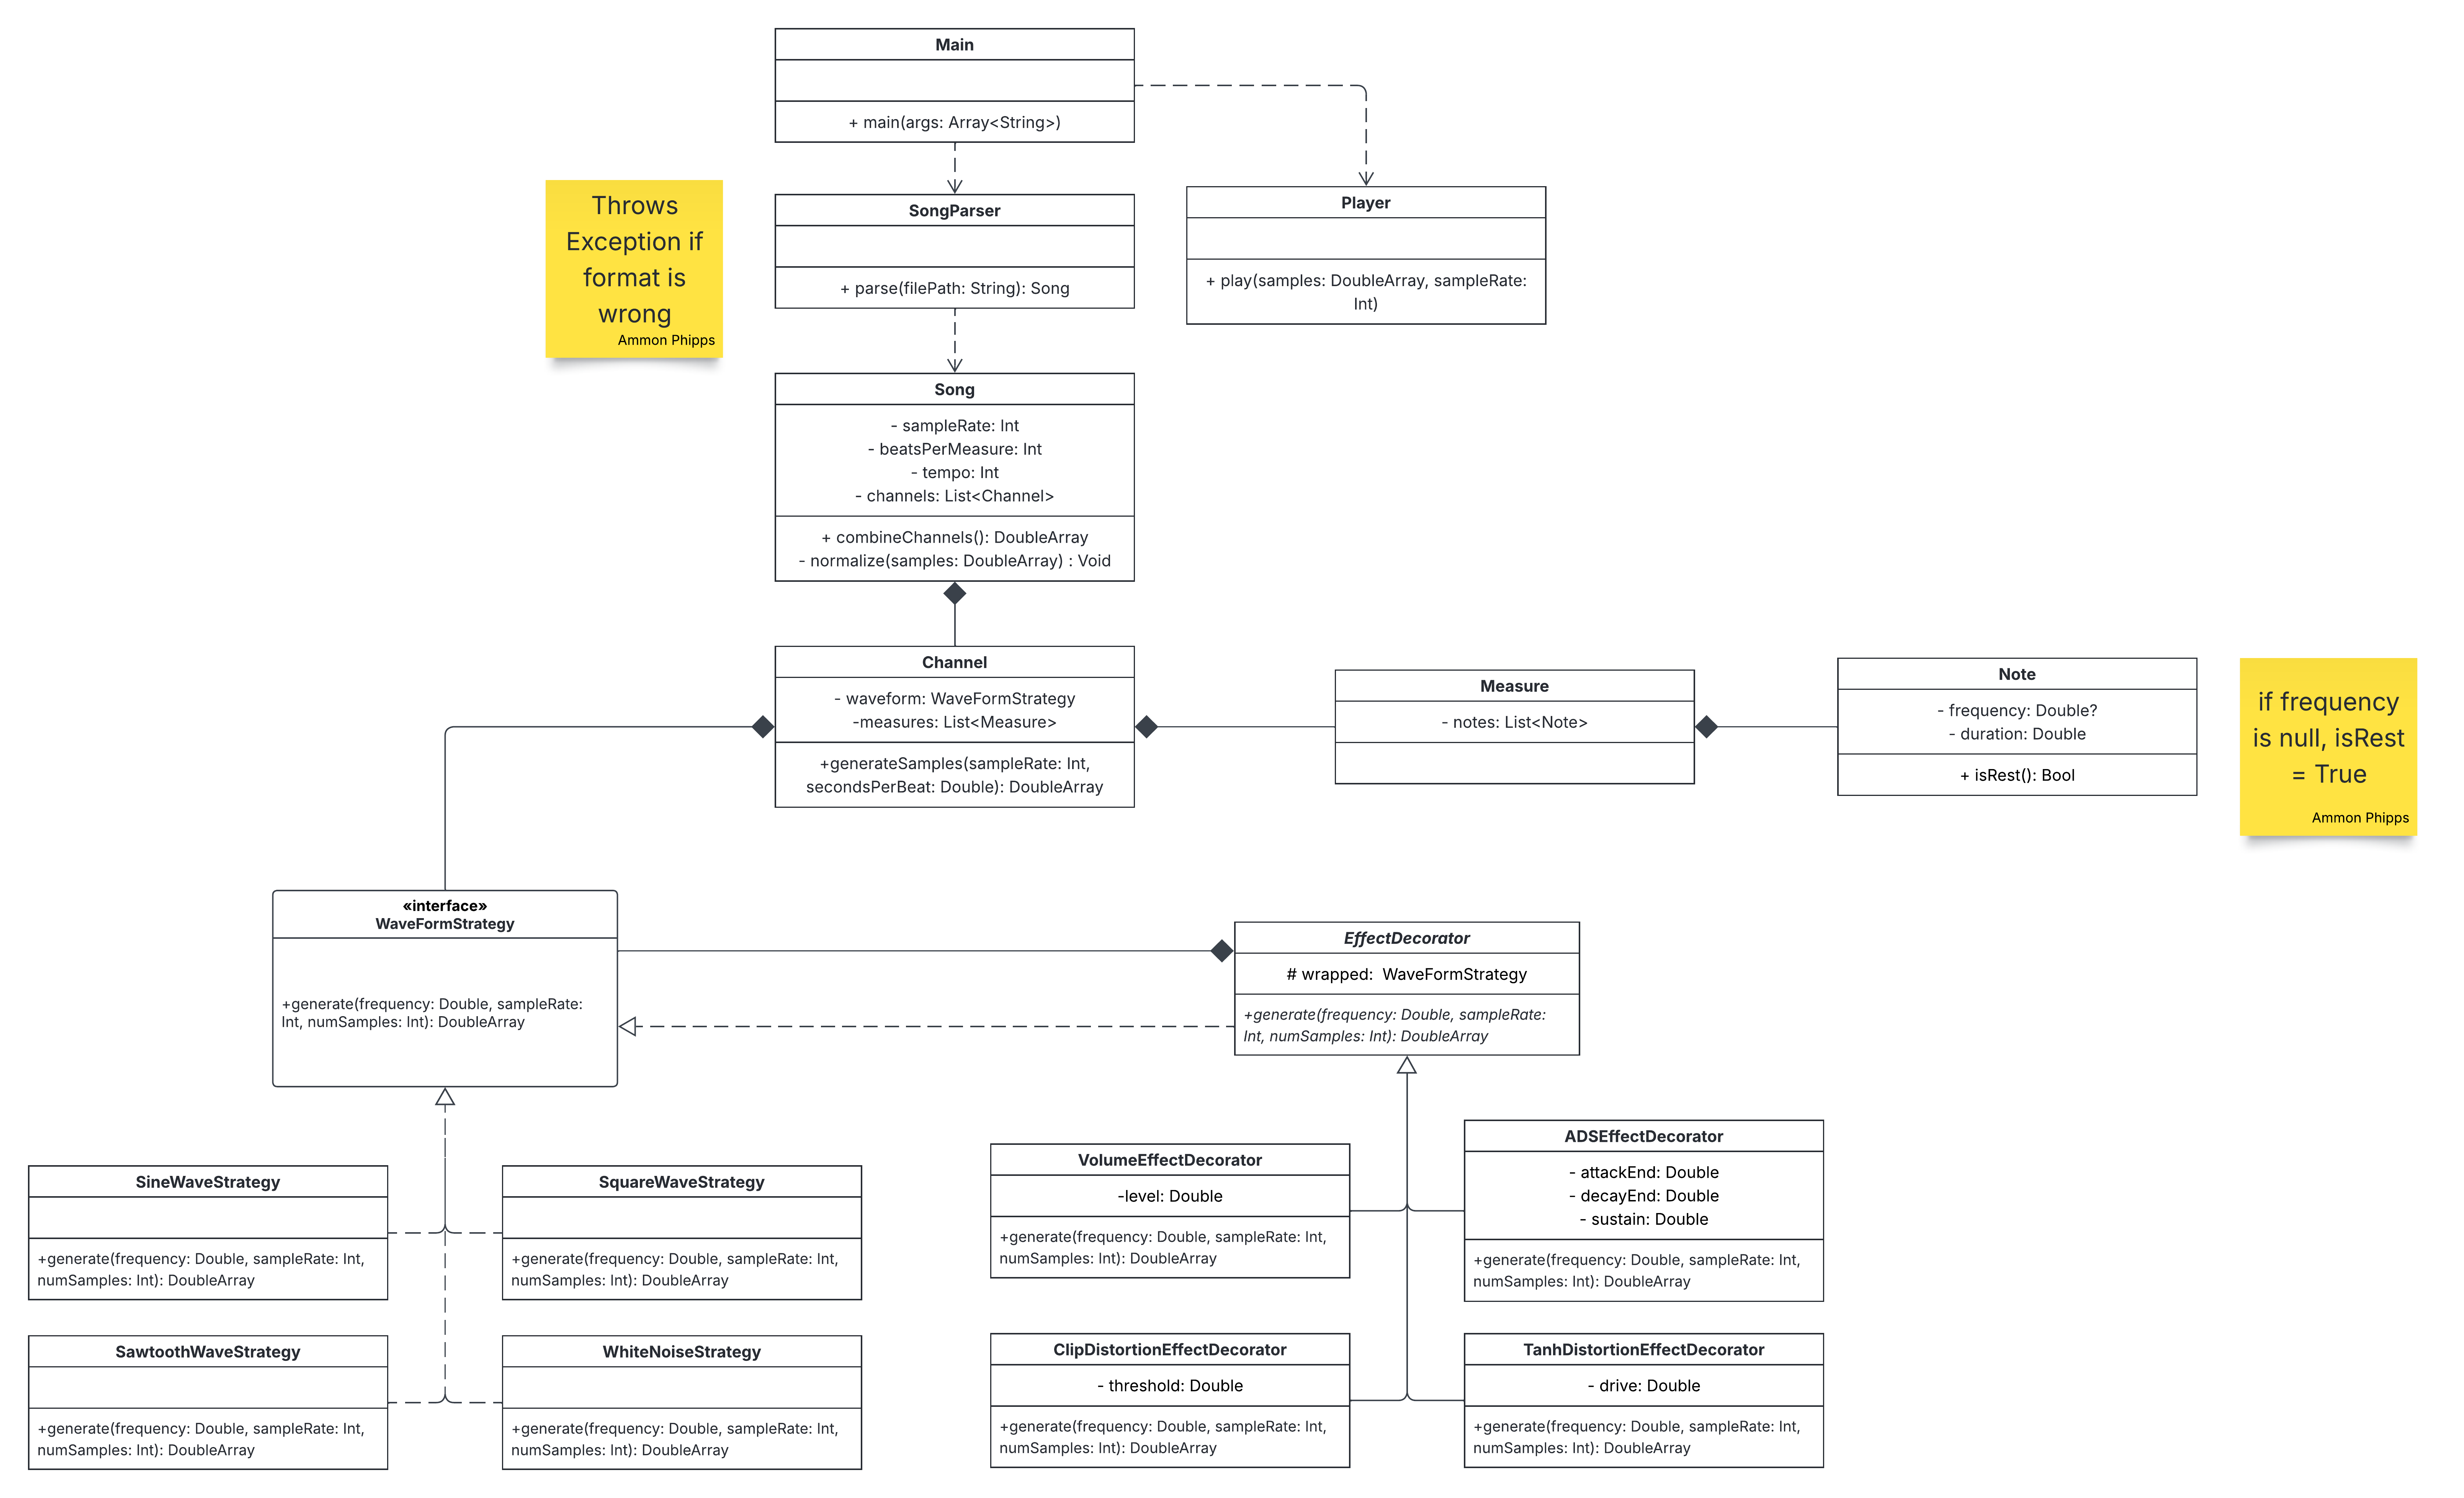
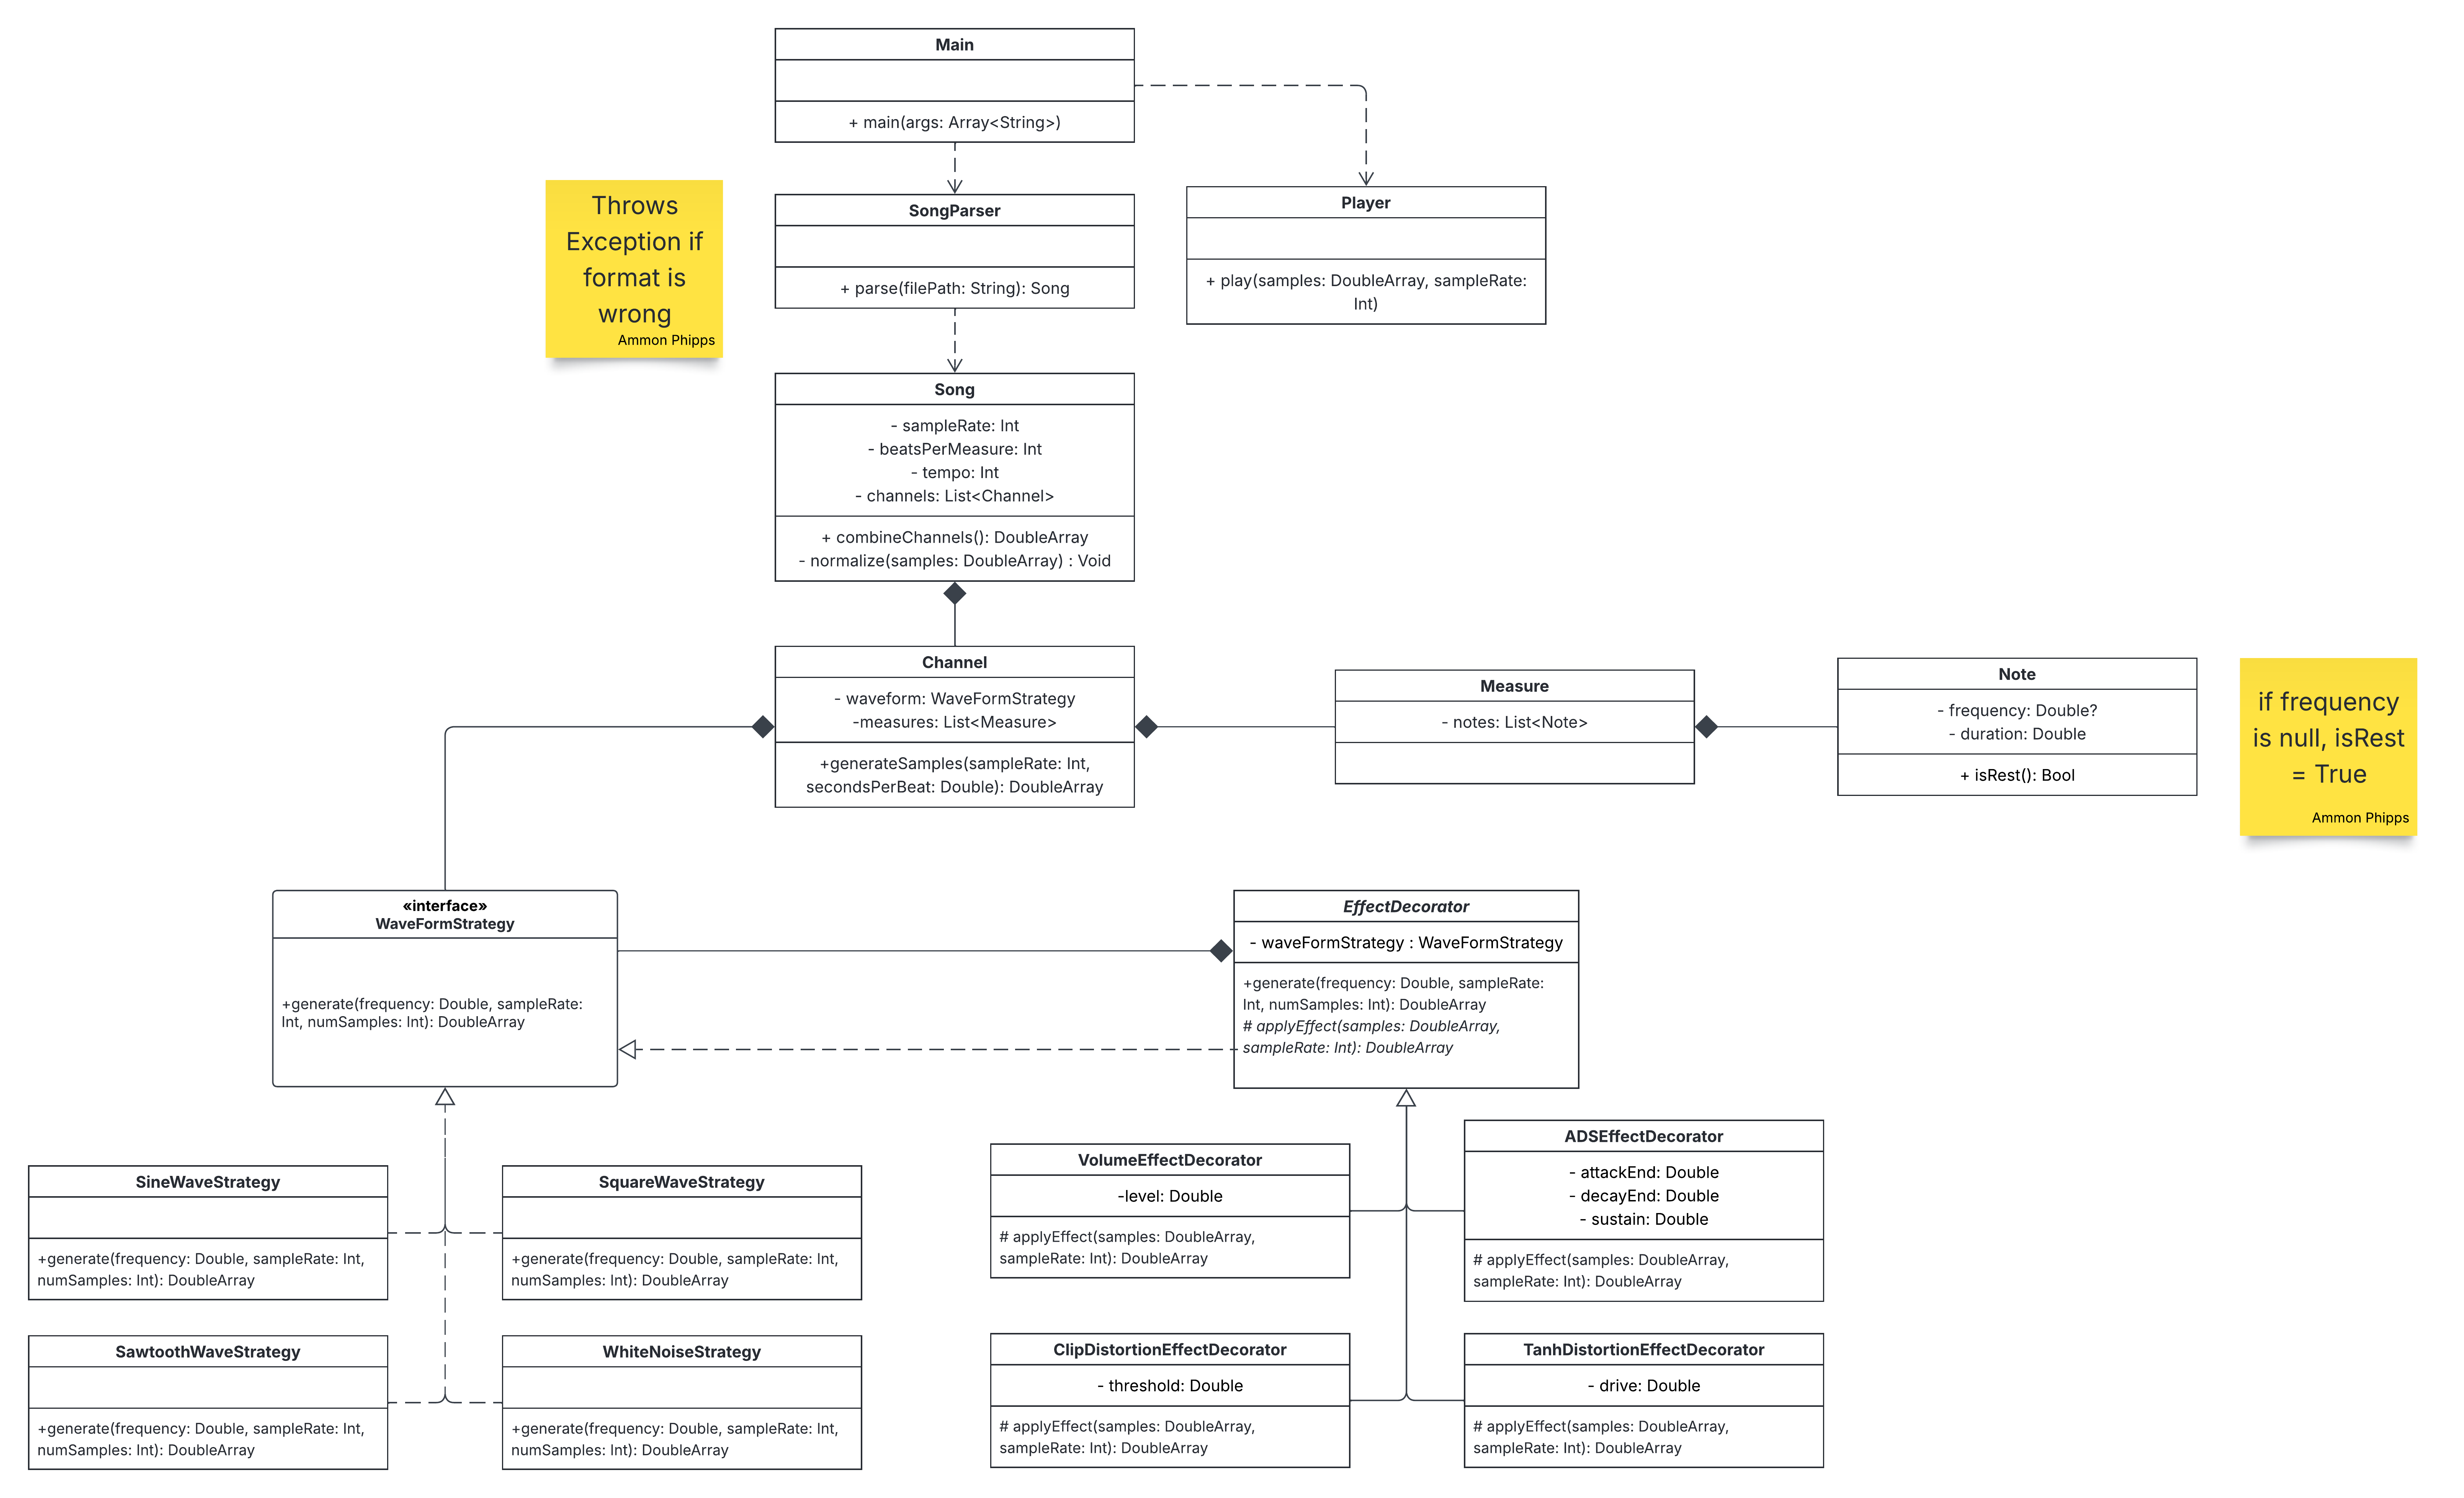
Started EffectDecorator, updated arcitecture for EffectDecorator on UML

diff --git a/src/main/kotlin/decorator/EffectDecorator.kt b/src/main/kotlin/decorator/EffectDecorator.kt
@@ -1,0 +1,12 @@
+package decorator
+
+import strategy.WaveFormStrategy
+
+abstract class EffectDecorator(private val waveFormStrategy: WaveFormStrategy) : WaveFormStrategy {
+    final override fun generate(frequency: Double, sampleRate: Int, numSamples: Int): DoubleArray {
+        val samples = waveFormStrategy.generate(frequency, sampleRate, numSamples)
+        return applyEffect(samples, sampleRate)
+    }
+
+    protected abstract fun applyEffect(samples: DoubleArray, sampleRate: Int): DoubleArray
+}